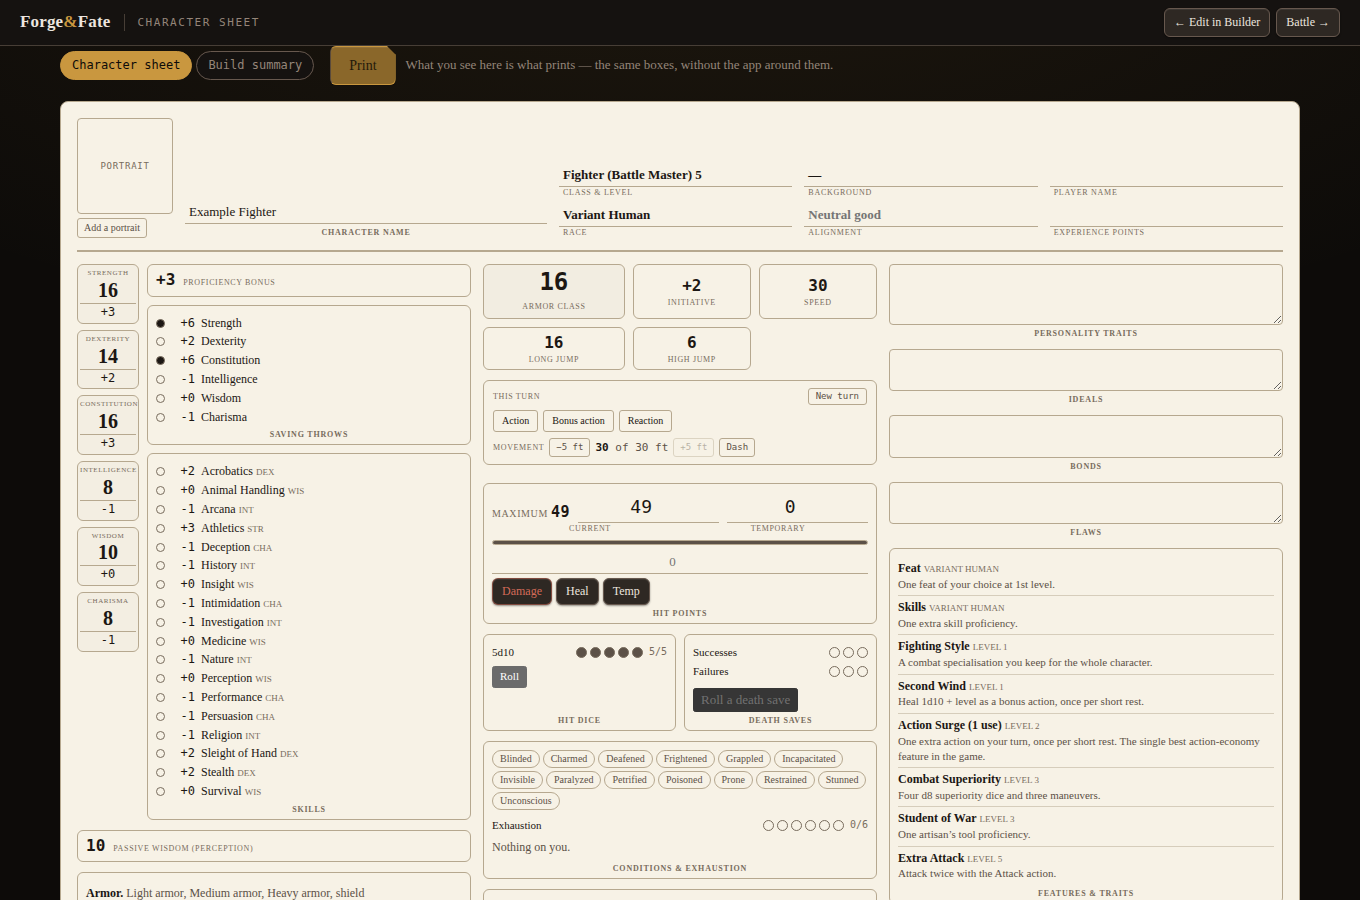
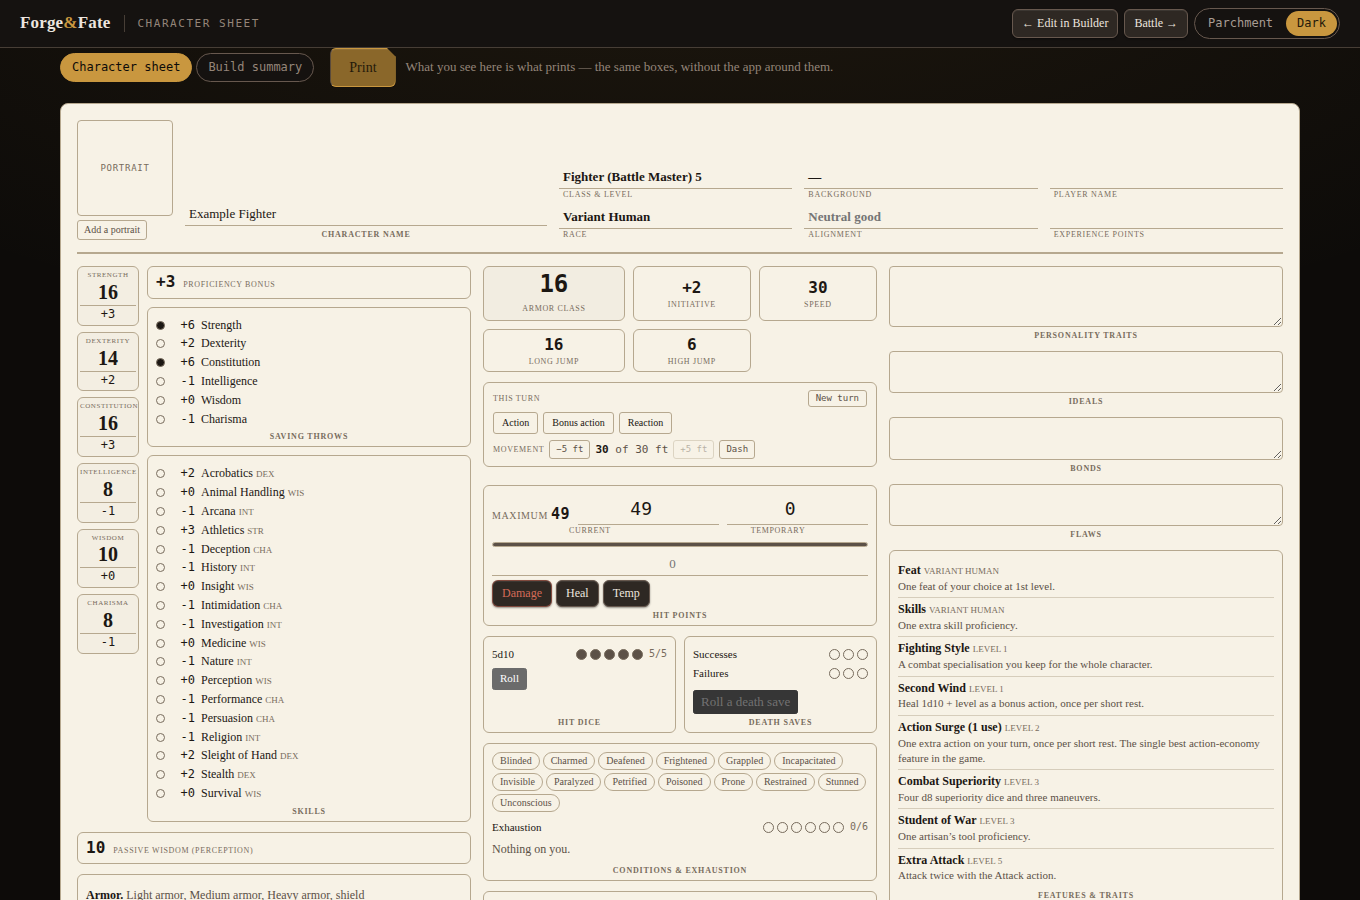
78: tablet reach - nothing unreachable, everything pressable
The gbar wraps instead of clipping its navigation ("Battle ->" vanished
below ~725px with no scrollbar - the .btl-bar defect one floor up). The
S75 camera dodge is nulled in the <=900px layout where the drawer
bottom-docks. An app-wide pointer:coarse branch grows .btn-sm, chips,
subtabs, camera segments and battle commands to finger targets. The
Builder rail leads the single column below 940px via grid order. The
theme toggle rides the gbar on every desk screen and the battle bar's
far end. Probe harness grows 1024x768 and 834x1112 touch contexts;
eighteen older probes patched for S77's Builder landing.

Claude-Session: https://claude.ai/code/session_01P7mvAGGDaTo6pgMbhp2jHV

diff --git a/src/index.css b/src/index.css
@@ -268,6 +268,17 @@ button {
   padding: 8px 20px;
   border-bottom: 1px solid var(--border-soft);
   background: var(--bg-sunken);
+  /*
+    §78: the bar must never clip its own navigation. `.app` is
+    overflow: hidden and this bar is a sibling of the scroll region, so
+    without wrapping, anything past the viewport edge was simply gone - no
+    scrollbar, no hint. The Builder's five actions plus the wordmark ran
+    ~725px, which is how "Battle →" vanished on a tablet in portrait. The
+    same defect class §75 fixed on .btl-bar; here the bar can grow a second
+    row instead, because the desk screens scroll and the map does not.
+  */
+  flex-wrap: wrap;
+  row-gap: 4px;
 }
 
 .gbar-home {
@@ -307,10 +318,13 @@ button {
   display: flex;
   gap: 6px;
   align-items: center;
+  /* §78: actions may wrap within their own cluster too - two short rows on
+     a narrow screen beat one clipped row anywhere. */
+  flex-wrap: wrap;
+  justify-content: flex-end;
 }
 
 .theme-toggle {
-  margin-left: auto;
   display: flex;
   gap: 2px;
   padding: 2px;
@@ -471,6 +485,18 @@ button {
 @media (max-width: 940px) {
   .columns, .columns-wide {
     grid-template-columns: minmax(0, 1fr);
+  }
+
+  /*
+    §78: single-column order puts the rail first, not last. The rail leads
+    with "At a glance" and "Next choices" - the summary and the where-to-go
+    links the whole Builder design leans on - and stacking it after the form
+    buried both under three screens of pickers on a tablet. `order` rather
+    than a markup move because `.columns` is shared with Import and the
+    Bestiary, where the natural order is already right.
+  */
+  .columns > .rail {
+    order: -1;
   }
 }
 
@@ -3952,6 +3978,45 @@ dl.detail-list {
 
   .cs .cs-conditions {
     gap: 6px;
+  }
+}
+
+/*
+  §78: fingers everywhere else, too. The block above grew the sheet's own
+  pips when §38 met its first tablet; the rest of the app kept mouse-sized
+  targets - .btn-sm is ~24px tall and it is the ONLY button style in the
+  game bar, the initiative rows and the saved-dungeon rows. Under a coarse
+  pointer the small controls grow to ~44px hit targets via padding and
+  min-height; the type does not change size, so nothing reflows for a mouse
+  and the printed page never sees this block at all.
+*/
+@media (pointer: coarse) {
+  .btn-sm {
+    min-height: 40px;
+    padding: 9px 12px;
+  }
+
+  .chip-btn {
+    min-height: 40px;
+    padding: 9px 16px;
+  }
+
+  .subtabs button {
+    min-height: 40px;
+    padding: 9px 14px;
+  }
+
+  .hud-cam .seg button {
+    min-height: 38px;
+    padding: 8px 12px;
+  }
+
+  .btl-cmd {
+    min-height: 44px;
+  }
+
+  .theme-toggle button {
+    padding: 8px 12px;
   }
 }
 
@@ -7589,6 +7654,15 @@ dl.detail-list {
   margin-left: auto;
 }
 
+/* §78: the theme toggle rides at the bar's far end - the battle wears no
+   game bar, and a theme switch should never cost a trip to the menu. */
+.btl-aside {
+  flex: 0 0 auto;
+  display: flex;
+  align-items: center;
+  padding: 0 4px;
+}
+
 .btl-cmd:hover {
   color: #f2ede2;
   border-color: rgba(242, 237, 226, 0.5);
@@ -7633,6 +7707,16 @@ dl.detail-list {
     bottom: 54px;
     width: auto;
     height: 52%;
+  }
+
+  /*
+    §78: §75's camera dodge assumes the drawer owns the left edge. Down
+    here the drawer is bottom-docked, so the dodge would shove the camera
+    cluster ~250px right - half off a portrait tablet - to avoid a panel
+    that is not there.
+  */
+  .btl-stage:has(.btl-drawer) .hud-cam {
+    left: 10px;
   }
 }
 

diff --git a/src/App.test.tsx b/src/App.test.tsx
@@ -252,6 +252,18 @@ describe('hub and spoke', () => {
     expect(screen.getByRole('button', { name: /run a battle/i })).toBeInTheDocument();
   });
 
+  it('carries the theme toggle on every screen, not only the title (§78)', async () => {
+    await toMenu();
+    await userEvent.click(screen.getByRole('button', { name: /build a character/i }));
+    expect(screen.getByRole('group', { name: /colour theme/i })).toBeInTheDocument();
+
+    // And on the battle, whose bar has no gbar to ride.
+    await userEvent.click(screen.getByRole('button', { name: /forge\s*&\s*fate/i }));
+    await userEvent.click(screen.getByRole('button', { name: /run a battle/i }));
+    await screen.findByRole('button', { name: 'Menu' });
+    expect(screen.getByRole('group', { name: /colour theme/i })).toBeInTheDocument();
+  });
+
   it('flips between the Builder and the sheet without a trip through the menu', async () => {
     await toMenu();
     await userEvent.click(screen.getByRole('button', { name: /build a character/i }));

diff --git a/src/App.tsx b/src/App.tsx
@@ -783,6 +783,10 @@ export default function App() {
                 Battle →
               </button>
             )}
+            {/* §78: the theme lived only on the title and setup screens, so
+                switching it from a desk screen meant a trip home. It rides
+                the bar every screen already wears. */}
+            <ThemeToggle choice={themeChoice} onChange={chooseTheme} />
           </span>
         </header>
       )}
@@ -868,6 +872,7 @@ export default function App() {
             onSheet={() => setTab('sheet')}
             pendingDungeonId={pendingDungeon}
             onPendingDungeonDone={() => setPendingDungeon(null)}
+            aside={<ThemeToggle choice={themeChoice} onChange={chooseTheme} />}
           />
         )}
         {tab === 'characters' && (

diff --git a/src/components/TableTab.tsx b/src/components/TableTab.tsx
@@ -219,6 +219,7 @@ export function TableTab({
   onSheet,
   pendingDungeonId,
   onPendingDungeonDone,
+  aside,
 }: {
   roster: Roster;
   onChange: (roster: Roster) => void;
@@ -260,6 +261,9 @@ export function TableTab({
    */
   pendingDungeonId?: string | null;
   onPendingDungeonDone?: () => void;
+  /** §78: the theme toggle, passed in like the title screen's corner takes
+      it - the battle wears no gbar, so the command bar carries it. */
+  aside?: React.ReactNode;
 }) {
   const { monsters: srd, loading } = useMonsters();
 
@@ -6043,6 +6047,7 @@ export function TableTab({
               Menu
             </button>
           )}
+          {aside && <span className="btl-aside">{aside}</span>}
         </nav>
       </div>
 

diff --git a/docs/HISTORY.md b/docs/HISTORY.md
@@ -5408,3 +5408,54 @@ roster; example lands on the example - then walks the pitch and the
 door in both.
 
 **Gates.** 2181 tests / 101 files, tsc, oxlint, build in budget.
+
+## 78. Tablet reach: nothing unreachable, everything pressable
+
+*The §75 audit's responsive tranche, scoped to what the table actually
+uses: a DM's laptop and the tablets beside it. Phones stay a non-goal.*
+
+**The game bar stops clipping its own navigation.** `.app` is
+overflow: hidden and the gbar sits outside the scroll region, so
+anything past the viewport edge simply vanished - no scrollbar, no
+hint. The Builder's five actions plus the wordmark ran ~725px, which is
+how "Battle →" disappeared on a tablet in portrait: the same defect
+class §75 fixed on the battle bar, one floor up. The bar and its action
+cluster wrap now; a second short row beats a clipped one anywhere.
+
+**§75's camera dodge learns where the drawer went.** Below 900px the
+drawer bottom-docks, but the `:has()` offset still fired - shoving the
+camera cluster ~250px right, half off a portrait screen, to dodge a
+panel that was not on the left edge. Nulled inside the same media block
+that moves the drawer.
+
+**Fingers get finger-sized targets.** The `pointer: coarse` branch
+§38 gave the sheet's pips now has an app-wide sibling: `.btn-sm` (the
+only button style in the gbar, the initiative rows and the saved-map
+rows, ~24px tall), `.chip-btn`, the subtabs, the camera segments and
+the battle commands all grow to ~40-44px hit targets under touch, via
+padding and min-height so a mouse sees exactly what it saw before.
+
+**The Builder's rail leads the single column.** Below 940px the rail -
+"At a glance" and the "Next choices" jump links, the readouts the whole
+design leans on - stacked *after* the form, three screens down. `order`
+on the grid child puts it first; the jump links then make the form one
+tap away. CSS order rather than a markup move because `.columns` is
+shared with Import and the Bestiary, where the natural order is already
+right.
+
+**The theme goes where you are.** The toggle lived on the title and
+setup screens only; switching from a desk screen meant a trip home. It
+rides the gbar on every desk screen now, and the battle's command bar -
+which wears no gbar - carries it at the far end.
+
+**Pinned.** The App suite asserts the toggle on the Builder and the
+battle. The probe grows the harness: alongside 1360×900 both themes, a
+1024×768 context and an 834×1112 touch context (device emulation makes
+`pointer: coarse` real) assert every gbar button inside the viewport,
+finger-sized buttons, the rail leading the column, and the camera
+cluster staying on the left edge with a drawer open. §77's new landing
+also meant every older probe that navigated from the hub after "show me
+an example" gained one wordmark step home - eighteen probes patched,
+run75-77 re-run green.
+
+**Gates.** 2181 tests / 101 files, tsc, oxlint, build in budget.
